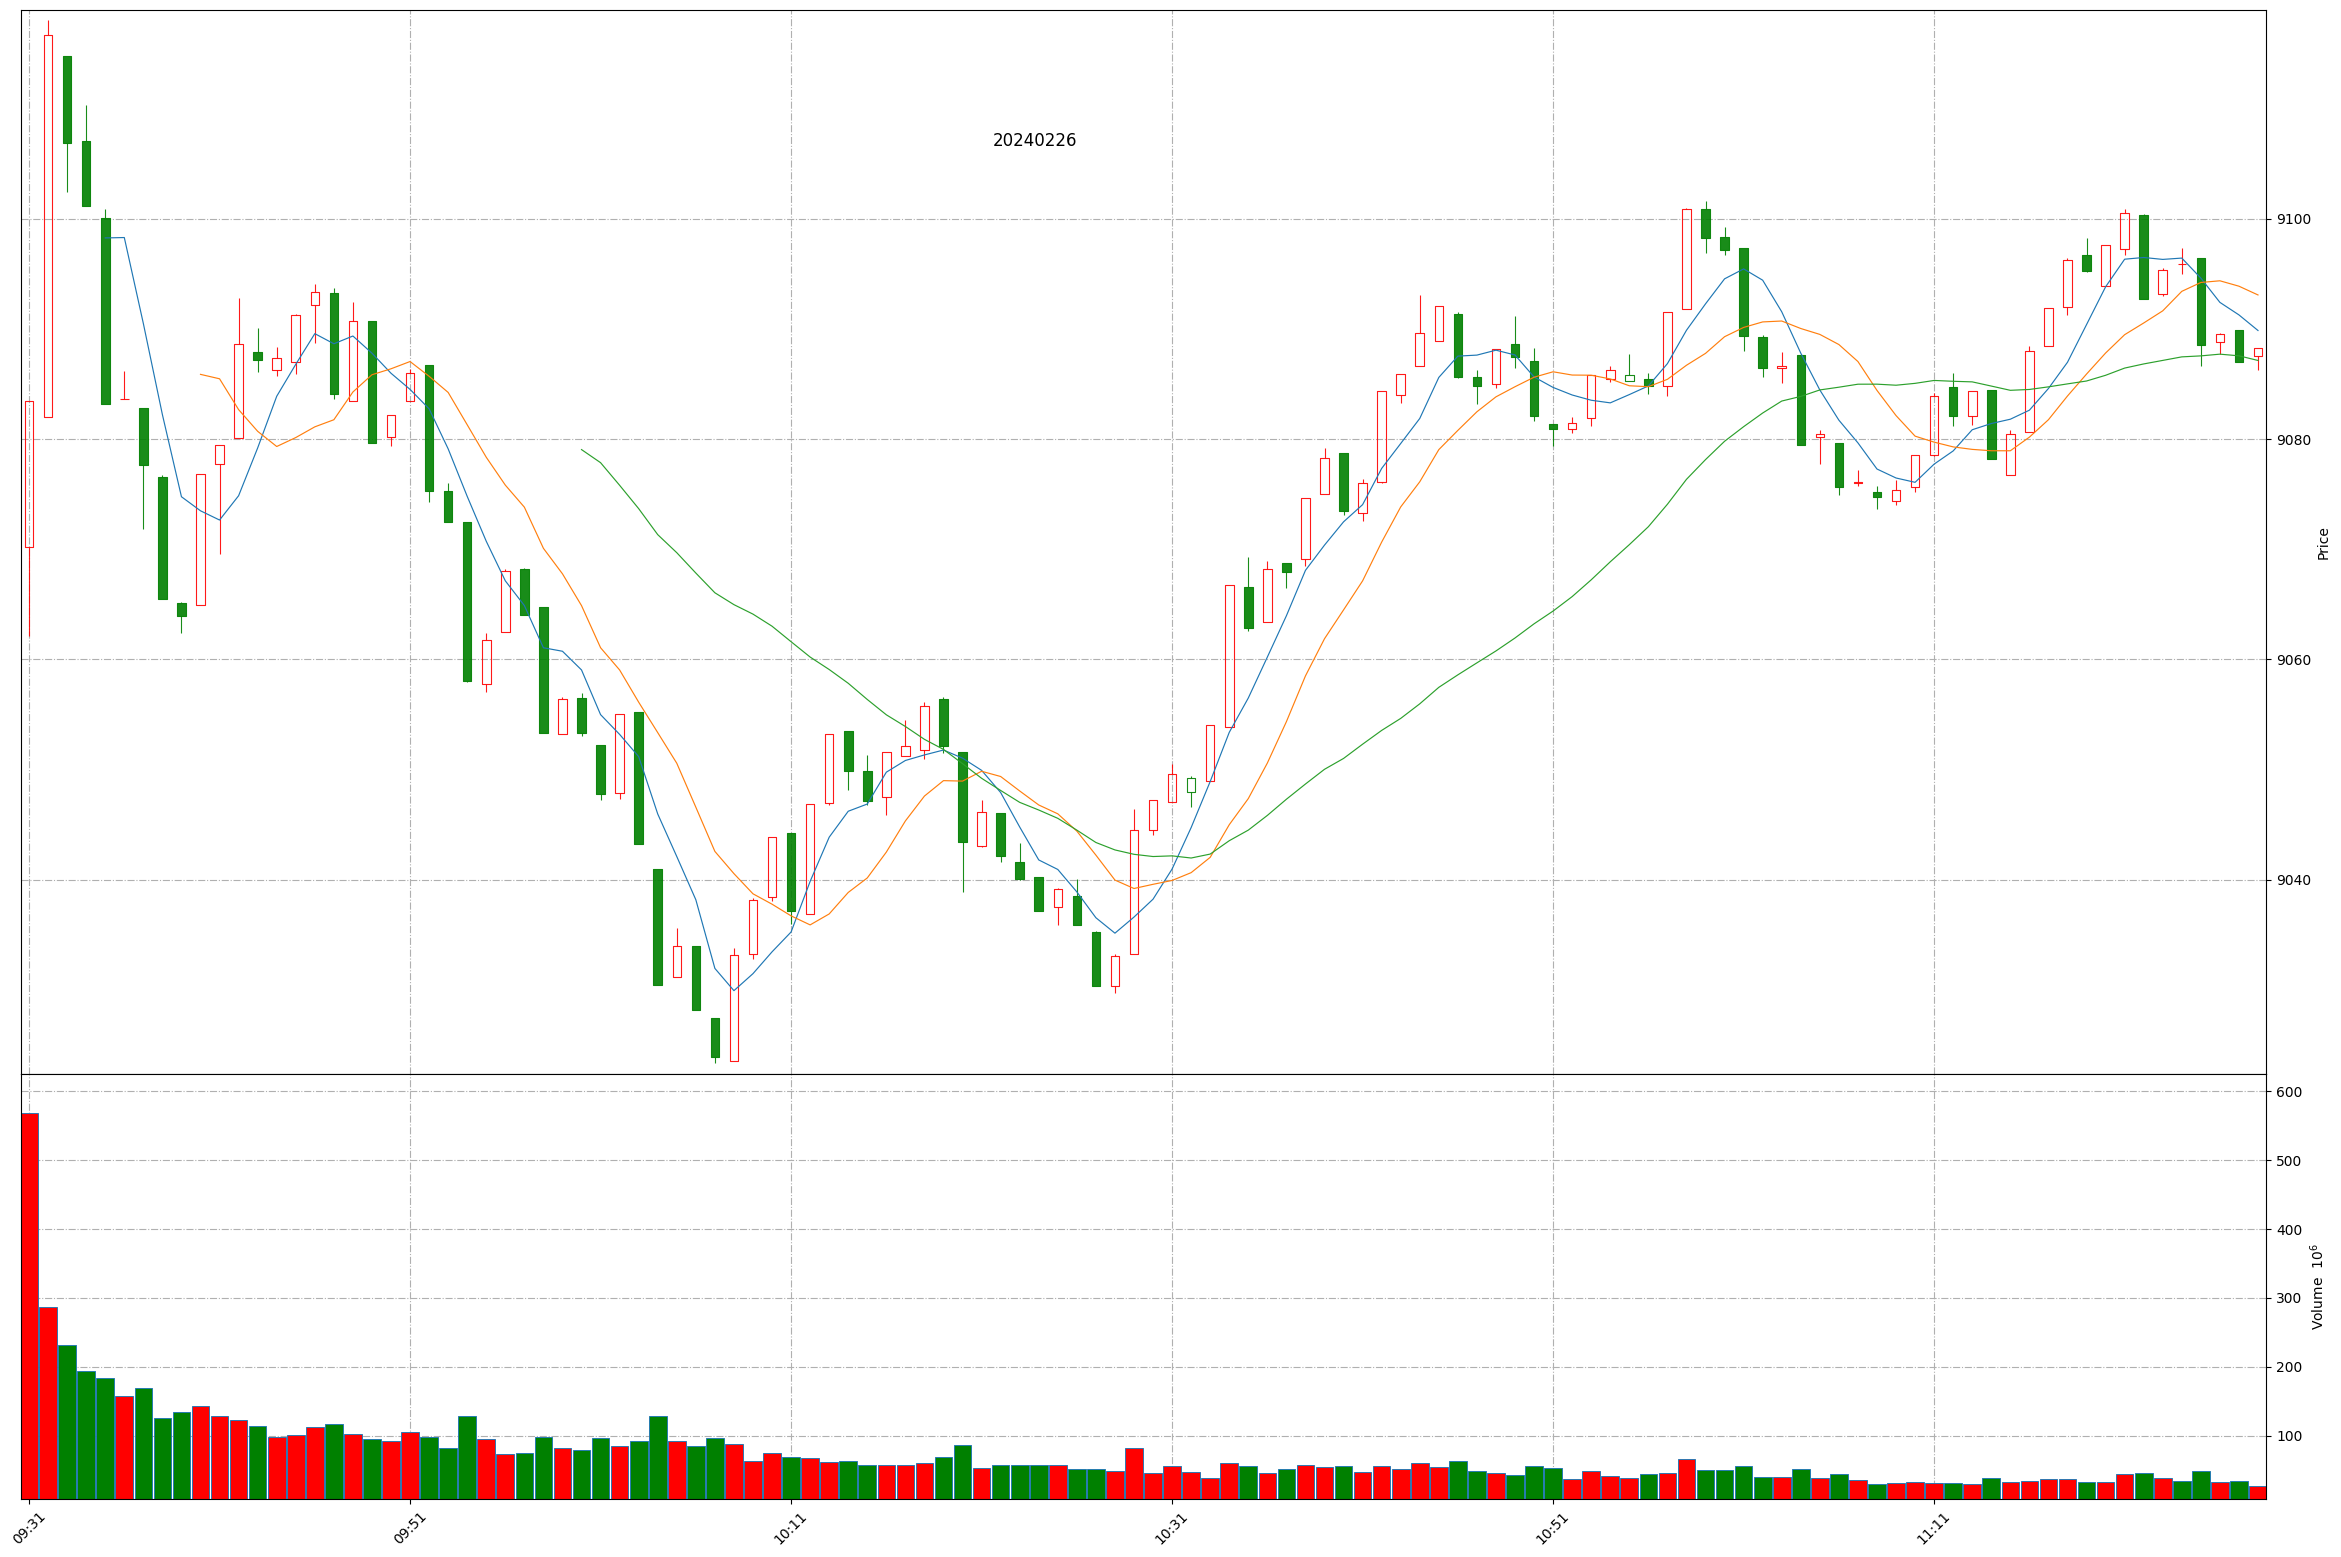
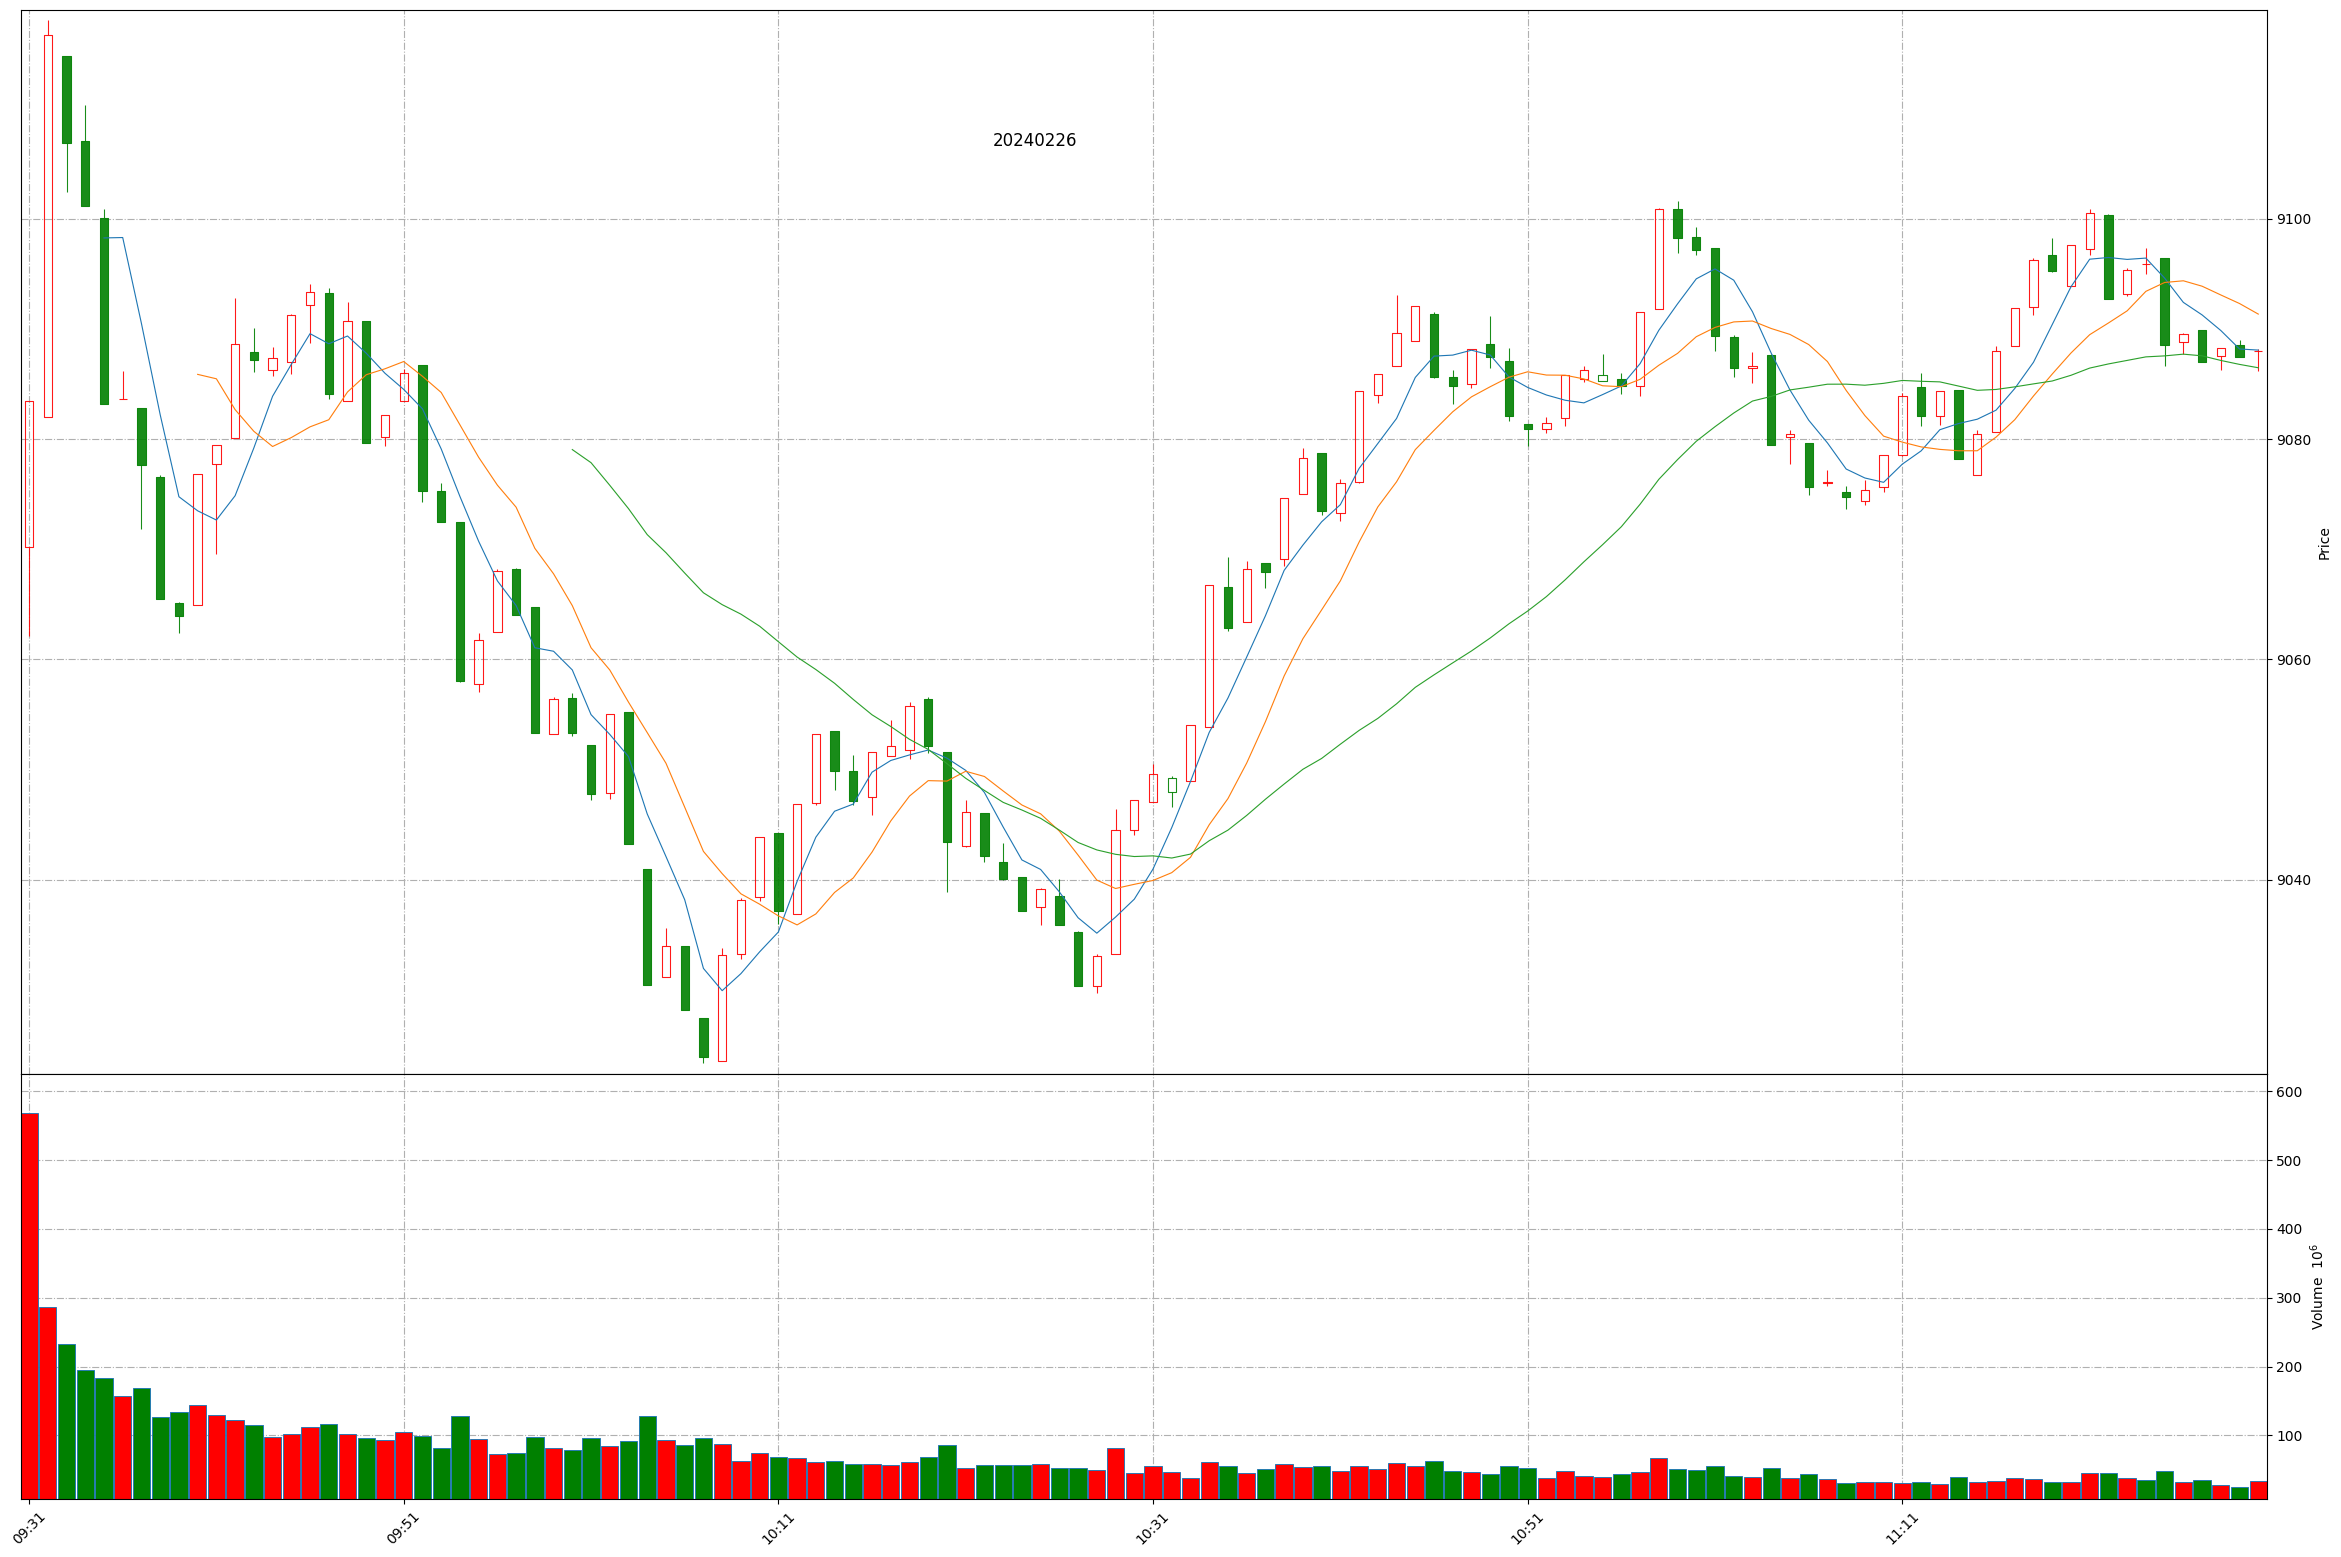
Github action update at 2024-02-26 11:35:42.

diff --git a/README.md b/README.md
@@ -1,11 +1,11 @@
 
 # Daily-A-share-market-quotes 每日 A 股指数（5min 更新）- 20240226
 
-### 上证指数 20240226 11:28
+### 上证指数 20240226 11:35
 ![](./fig/2024/2/20240226-sh000001.png)
 
-### 深证成指 20240226 11:28
+### 深证成指 20240226 11:35
 ![](./fig/2024/2/20240226-sz399001.png)
 
-### 北证50 20240226 11:28
+### 北证50 20240226 11:35
 ![](./fig/2024/2/20240226-bj899050.png)
